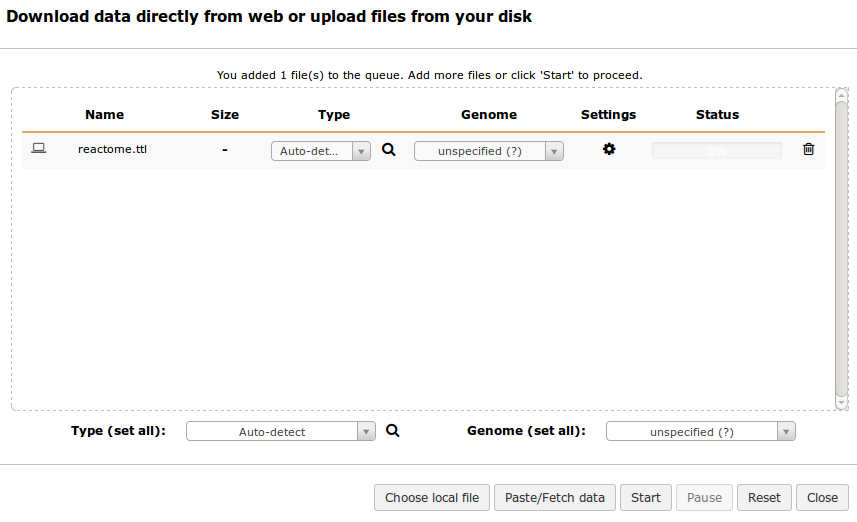
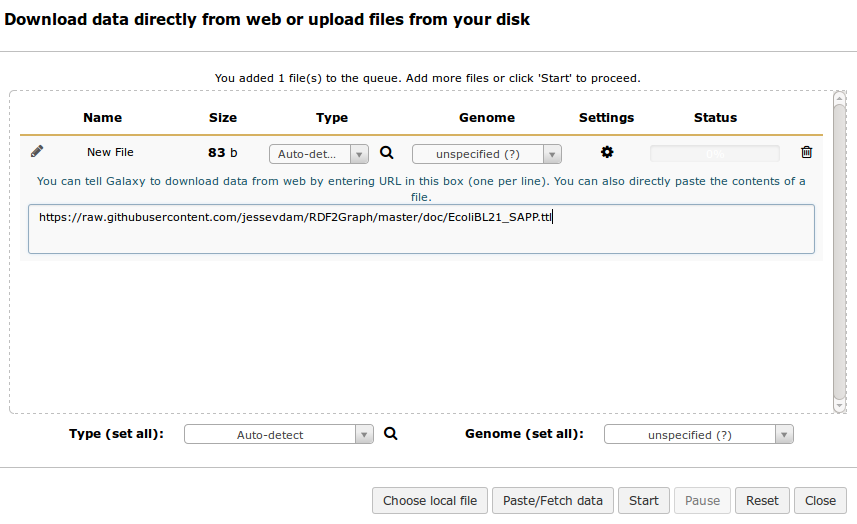
add reference to example file on the github

diff --git a/settings/static/Manual.html b/settings/static/Manual.html
@@ -18,7 +18,7 @@ For those who are new to the Galaxy interface, <b>on the left side</b> you have 
 </ol>
 <p><b>Example</b><br/>
 Use this symbol to upload your RDF file from your local machine or from another website. <img src="Manual_resources/upload.png"/><b> </b>Then click on paste/fetch data. It should look like this.<b><br/></b><img src="Manual_resources/pastfetch.png"/><br/>
-When the file is located on your local machine click choose local file. If the file is on another server and you have copied the URL past it in the text box area.<br/>
+When the file is located on your local machine click choose local file. If the file is on another server click 'Paste/Fetch data' then paste the URL past it in the text box area. Example data set is available at <a href="https://raw.githubusercontent.com/jessevdam/RDF2Graph/master/doc/EcoliBL21_SAPP.ttl" target="_blank">https://raw.githubusercontent.com/jessevdam/RDF2Graph/master/doc/EcoliBL21_SAPP.ttl</a><br/>
 <b><br/></b><img src="Manual_resources/urlpaste.png"/><br/></br>Click start and it will turn green when done and it should appear in your history on the right and turn green.<br/><br/>
 <img src="Manual_resources/History1.png"/><br/>
 <br/>
